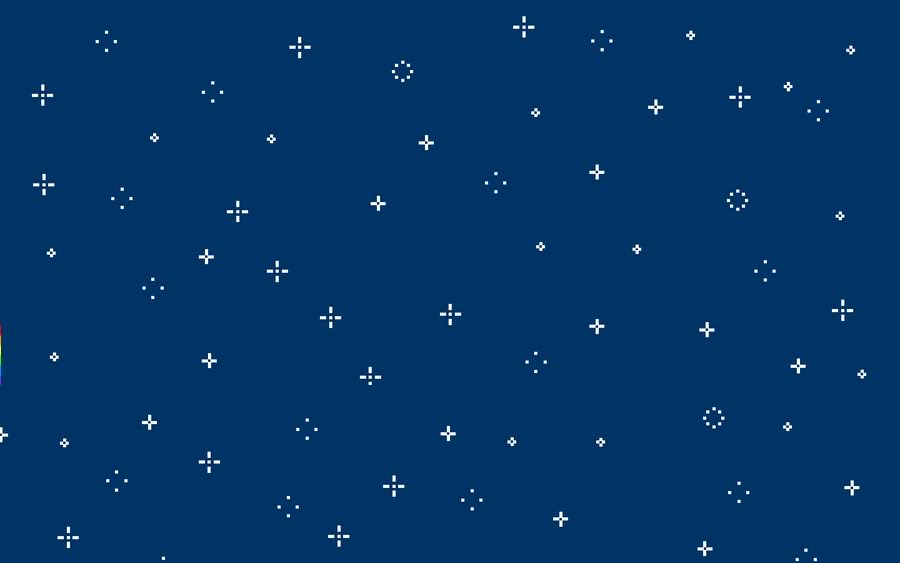
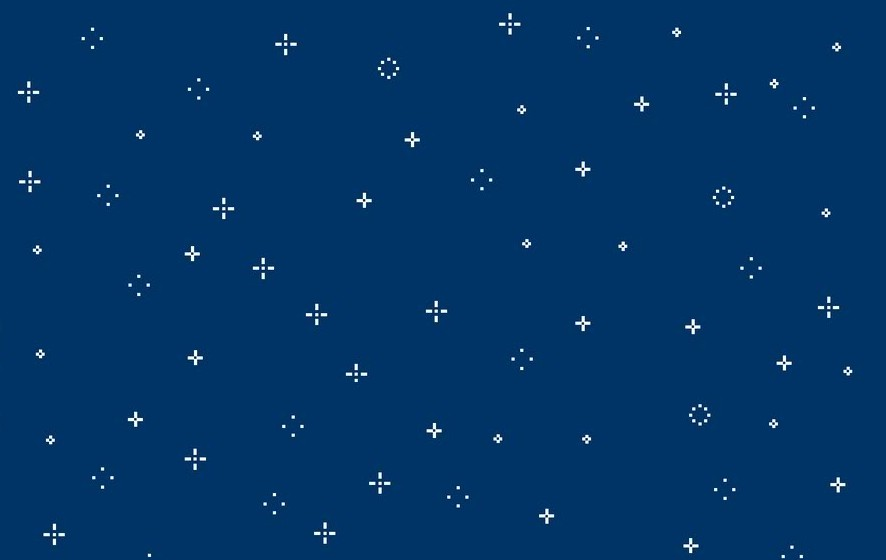
Juego Flying Hero Ruby 08/06/2016

diff --git a/flying_hero/background.rb b/flying_hero/background.rb
@@ -1,0 +1,22 @@
+require "gosu"
+
+class Background
+  SCROLL_SPEED = 2
+
+  def initialize
+    @image = Gosu::Image.new('assets/images/background.jpg', tileable: true)
+    @width = @image.width
+    @x = 0
+  end
+
+  def draw
+    @image.draw(@x, 0, 0)
+    @image.draw(@x - @width, 0, 0)
+  end
+
+  def scroll!
+    @x -= SCROLL_SPEED
+    @x %= @width
+  end
+
+end

diff --git a/flying_hero/game.rb b/flying_hero/game.rb
@@ -1,13 +1,20 @@
 require 'gosu'
+require_relative 'background'
 
 class Game < Gosu::Window
 
   def initialize
     super(900, 550, fullscreen: false)
     self.caption = 'Flying Hero!'
+    @background = Background.new
   end
 
   def draw
+    @background.draw
+  end
+
+  def update
+    @background.scroll!
   end
 
   def button_down(id)
